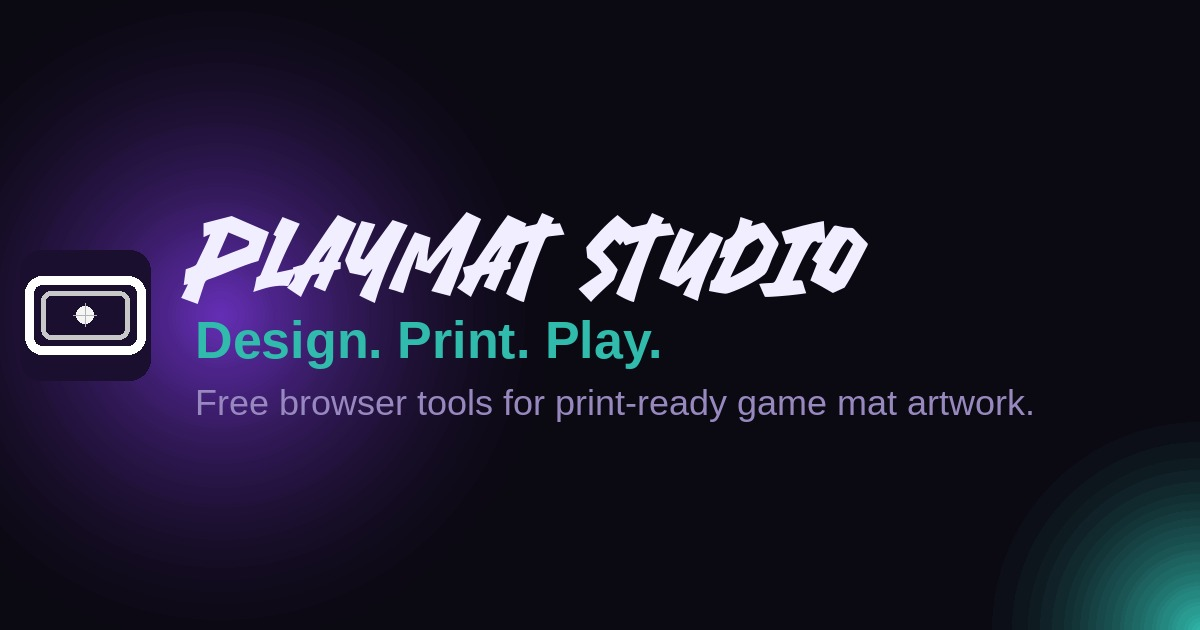
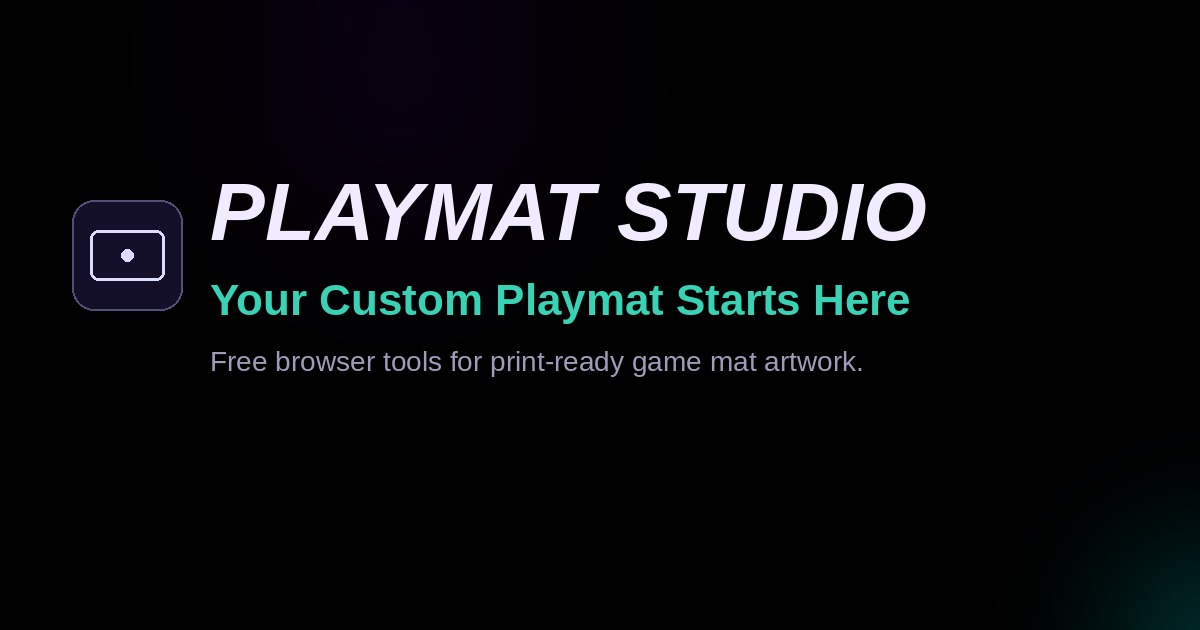
Update hero tagline and OG image to "Your Custom Playmat Starts Here"
- Changed <h1> in hero section from "Design. Print. Play." to "Your Custom Playmat Starts Here"
- Updated <title>, og:title, and twitter:title meta tags to match
- Regenerated images/og-preview.jpg with the new tagline text

https://claude.ai/code/session_01K7Nx38XyDJbewPShFeLc3w

diff --git a/index.html b/index.html
@@ -6,7 +6,7 @@
 -->
 <html lang="en">
 	<head>
-		<title>Playmat Studio &mdash; Design. Print. Play.</title>
+		<title>Playmat Studio &mdash; Your Custom Playmat Starts Here</title>
 		<meta charset="utf-8" />
 		<meta http-equiv="Cache-Control" content="no-cache, no-store, must-revalidate" />
 		<meta http-equiv="Pragma" content="no-cache" />
@@ -20,11 +20,11 @@
 		<!-- Open Graph / Twitter Card -->
 		<meta property="og:type" content="website" />
 		<meta property="og:url" content="https://playmatstudio.com/" />
-		<meta property="og:title" content="Playmat Studio &mdash; Design. Print. Play." />
+		<meta property="og:title" content="Playmat Studio &mdash; Your Custom Playmat Starts Here" />
 		<meta property="og:description" content="Free browser-based tools to design, enhance, and download print-ready game mat artwork. No installs. No account. No cost." />
 		<meta property="og:image" content="https://playmatstudio.com/images/og-preview.jpg" />
 		<meta name="twitter:card" content="summary_large_image" />
-		<meta name="twitter:title" content="Playmat Studio &mdash; Design. Print. Play." />
+		<meta name="twitter:title" content="Playmat Studio &mdash; Your Custom Playmat Starts Here" />
 		<meta name="twitter:description" content="Free browser-based tools to design, enhance, and download print-ready game mat artwork. No installs. No account. No cost." />
 		<meta name="twitter:image" content="https://playmatstudio.com/images/og-preview.jpg" />
 
@@ -97,7 +97,7 @@
 
 					<!-- Hero -->
 					<header>
-						<h1>Design. Print. Play.</h1>
+						<h1>Your Custom Playmat Starts Here</h1>
 						<p>Free browser-based tools to prepare your artwork for professional printing.<br />
 						No installs. No account. No cost. Everything runs in your browser.</p>
 						<ul class="actions">
